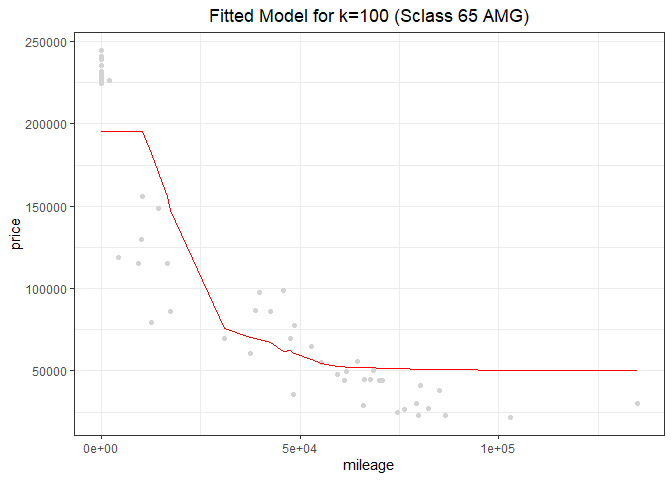
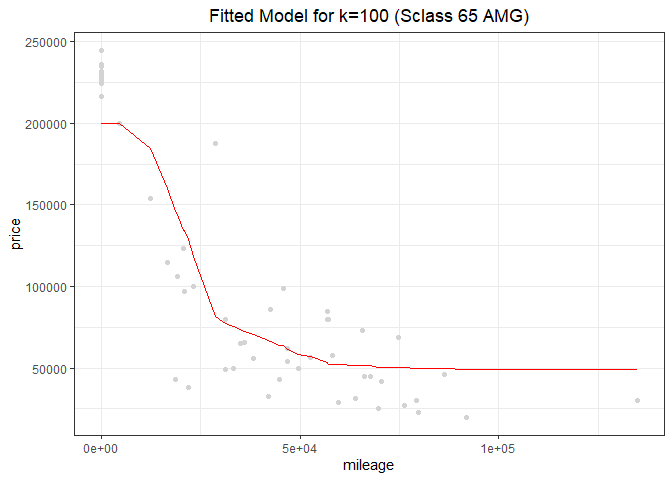
reupload

diff --git a/hw1.md b/hw1.md
@@ -25,14 +25,14 @@ was 3. The fitted model for k=3 is as below, and RSME is 10880.2
 
 ![](hw1_files/figure-markdown_github/1.2.4-1.png)
 
-    ## [1] 9339.727
+    ## [1] 11120.39
 
 When k=20, The fitted model is as below. RSME is 9238.5, which is
 smaller than RSME when k=3.
 
 ![](hw1_files/figure-markdown_github/1.2.5-1.png)
 
-    ## [1] 8559.556
+    ## [1] 10310.09
 
 Now, the fitted model for k=100 below shows us the fact that the graph
 gets smoother as k goes bigger. But RSME when k=100 is 10483.9, which is
@@ -41,7 +41,7 @@ minimizes RSME will be somewhere between k=3 and k=100.
 
 ![](hw1_files/figure-markdown_github/1.2.6-1.png)
 
-    ## [1] 9929.078
+    ## [1] 12026.88
 
 In order to find the optimal k, we plotted k versus RSME for every k.
 The graph below shows that RSME is minimized to 9134.4 when k equals to
@@ -51,9 +51,9 @@ samples are randomly chosen.
 
 ![](hw1_files/figure-markdown_github/1.2.7-1.png)
 
-    ## [1] 5
+    ## [1] 14
 
-    ## [1] 8287.092
+    ## [1] 9962.66
 
 The graph below shows the plot of the fitted value when k is the optimal
 value.
@@ -74,14 +74,14 @@ k=3 is as below, and RSME is 21822.8
 
 ![](hw1_files/figure-markdown_github/1.2.11-1.png)
 
-    ## [1] 23561.11
+    ## [1] 26691.87
 
 When k=20, The fitted model is as below. RSME is 22546.5, which is
 slightly bigger than RSME when k=3.
 
 ![](hw1_files/figure-markdown_github/1.2.12-1.png)
 
-    ## [1] 19516.63
+    ## [1] 23582.43
 
 Now, the fitted model for k=100 below shows us the fact that the graph
 gets smoother as k goes bigger. But RSME when k=100 is 40928.0, which is
@@ -90,7 +90,7 @@ must be much smaller than 100.
 
 ![](hw1_files/figure-markdown_github/1.2.13-1.png)
 
-    ## [1] 34164.83
+    ## [1] 33074.09
 
 In order to find the optimal k, we plotted k versus RSME for every k
 value. The graph below shows that RSME is minimized to 21037.7 when k
@@ -98,9 +98,9 @@ equals to 4.
 
 ![](hw1_files/figure-markdown_github/1.2.14-1.png)
 
-    ## [1] 9
+    ## [1] 54
 
-    ## [1] 18134.53
+    ## [1] 22673.12
 
 The graph below shows the plot of fitted model when k is optimally
 chosen.
